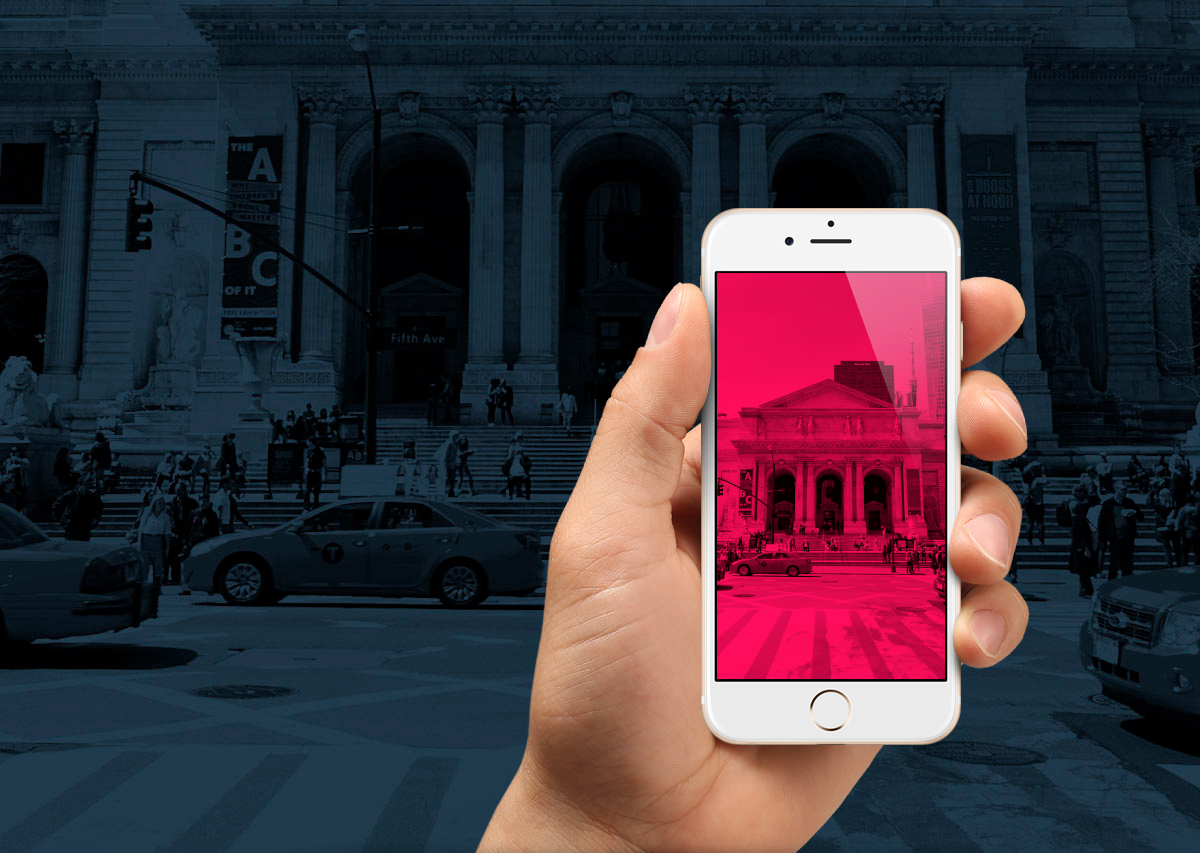
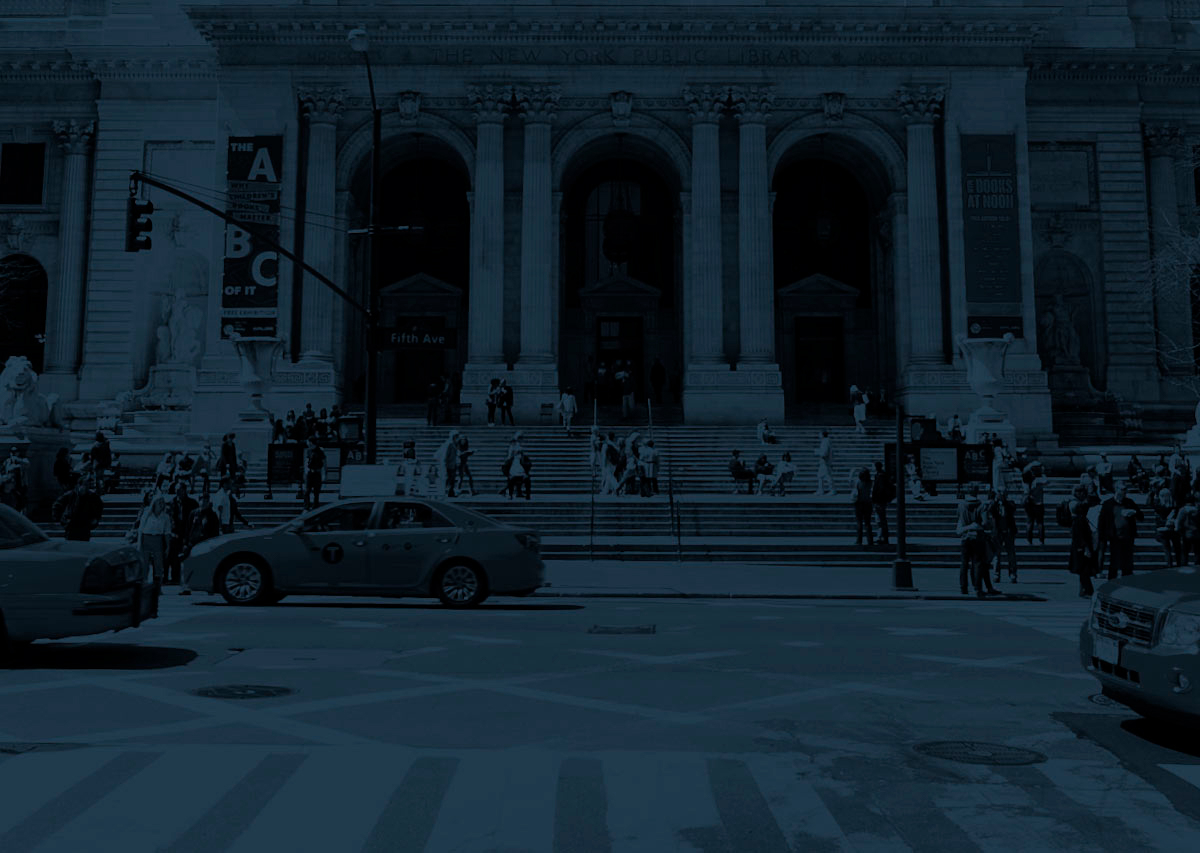
Правка шапки и карты на главной

Changed region(s): [[0.4008, 0.2438, 0.8633, 1.0]]

diff --git a/source/less/blocks/map.less b/source/less/blocks/map.less
@@ -1,69 +1,72 @@
 .map {
   display: flex;
-  justify-content: center;
-  margin: 0 auto;
-  height: 100px;
+  height: 200px;
   width: 100%;
-  margin-top: 0px;
   overflow: hidden;
-  padding-bottom: 56.25%;
   position: relative;
-  height: 0;
 }
 
 .map iframe {
-  left: 0;
-  top: 0;
   height: 100%;
   width: 100%;
-  position: absolute;
 }
 
-.map::after {
-  z-index: 1;
+.map::before {
   content: "";
-  width: 100%;
-  height: 125px;
   position: absolute;
-  top: 0;
-  left: 0;
-  // background-image: url("../img/triangle-white.png");
-  background-size: cover;
-  background-position: center;
+  z-index: 1;
+  width: 100%;
+  height: 123px;
+  top: -32px;
+  background-image: url("../img/triangle-tablet.svg");
+  background-repeat: no-repeat;
+  background-size: 100% 100%;
+  background-position: 50% 50%;
+}
+
+@media (min-width: @mobile-width-only) {
+  .map {
+    width: 100%;
+    height: 375px;
+  }
+  .map iframe {
+    height: 100%;
+    width: 100%;
+  }
+  .map::after {
+    background-image: url("../img/triangle-tablet.svg");
+    width: 100%;
+    height: 123px;
+    top: 0;
+    background-position: top;
+  }
 }
 
 @media (min-width: @tablet-width) {
   .map {
+    width: 100%;
     height: 375px;
-    margin-top: 0px;
-    overflow: hidden;
-    padding-bottom: 56.25%;
-    position: relative;
-    height: 0;
   }
   .map iframe {
-    left: 0;
-    top: 0;
     height: 100%;
     width: 100%;
-    position: absolute;
+  }
+  .map::after {
+    background-image: url("../img/triangle-desktop.svg");
+    width: 100%;
+    height: 123px;
+    top: 0;
+    background-position: top;
   }
 }
 
 @media (min-width: @desktop-width) {
   .map {
-    height: 375px;
-    margin-top: 0px;
-    overflow: hidden;
-    padding-bottom: 56.25%;
-    position: relative;
-    height: 0;
+    width: 100%;
+    height: 500px;
   }
   .map iframe {
-    left: 0;
-    top: 0;
     height: 100%;
     width: 100%;
-    position: absolute;
   }
 }

diff --git a/source/less/blocks/download-app.less b/source/less/blocks/download-app.less
@@ -3,8 +3,22 @@
   background-color: rgb(@dark-blue);
   background-repeat: no-repeat;
   background-position: center 2%;
+  position: relative;
+  box-sizing: border-box;
   z-index: 0;
   background-size: 100%;
+  position: relative;
+}
+
+.download-app::after {
+  content: "";
+  position: absolute;
+  background-image: url("../img/hand-phone-mobile.png");
+  bottom: 37%;
+  left: 9%;
+  width: 280px;
+  height: 286px;
+  margin: 0 auto;
 }
 
 .download-app__header {
@@ -94,6 +108,8 @@
     background-image: url("../img/background-tablet.jpg");
     background-repeat: no-repeat;
     background-position: center 80%;
+    height: 730px;
+    background-size: cover;
   }
   .download-app__button {
     width: 300px;
@@ -117,6 +133,16 @@
   .download-app__text {
     font-size: 18px;
     line-height: 24px;
+  }
+  .download-app::after {
+    content: "";
+    position: absolute;
+    background-image: url("../img/hand-phone-tablet.png");
+    bottom: 0%;
+    left: 0%;
+    width: 660px;
+    height: 545px;
+    z-index: -1;
   }
 }
 
@@ -146,5 +172,15 @@
   }
   .download-app__slogan-wrapper {
     margin-top: 42px;
+  }
+  .download-app::after {
+    content: "";
+    position: absolute;
+    background-image: url("../img/hand-phone-desktop.png");
+    bottom: 0%;
+    left: 12%;
+    width: 1050px;
+    height: 645px;
+    z-index: -1;
   }
 }

diff --git a/source/index.html b/source/index.html
@@ -166,7 +166,7 @@
             <td class="table-cost__cell"><span class="table-cost__available">Доступен</span></td>
           </tr>
         </table>
-        <div class="control">
+        <div class="table-cost__control control">
           <button class="control__button control__button--left" type="button"></button>
           <button class="control__button control__button--center control__button--active" type="button"></button>
           <button class="control__button control__button--right" type="button"></button>

diff --git a/source/less/blocks/table-cost.less b/source/less/blocks/table-cost.less
@@ -103,6 +103,15 @@
   background-repeat: no-repeat;
 }
 
+.table-cost__control {
+  position: absolute;
+  left: 50%;
+  bottom: 50px;
+  transform: translate(-50%);
+  display: flex;
+  align-items: center;
+}
+
 @media (min-width: @mobile-width-only) {
   .price__table {
     left: 0;

diff --git a/source/less/blocks/price.less b/source/less/blocks/price.less
@@ -6,6 +6,7 @@
   background-size: cover;
   overflow: hidden;
   margin-top: 36px;
+  position: relative;
 }
 
 @media (min-width: @tablet-width) {

diff --git a/source/less/blocks/reviews.less b/source/less/blocks/reviews.less
@@ -43,6 +43,7 @@
   bottom: 30px;
   transform: translate(-50%);
   display: flex;
+  align-items: center;
 }
 
 .reviews__arrow {
